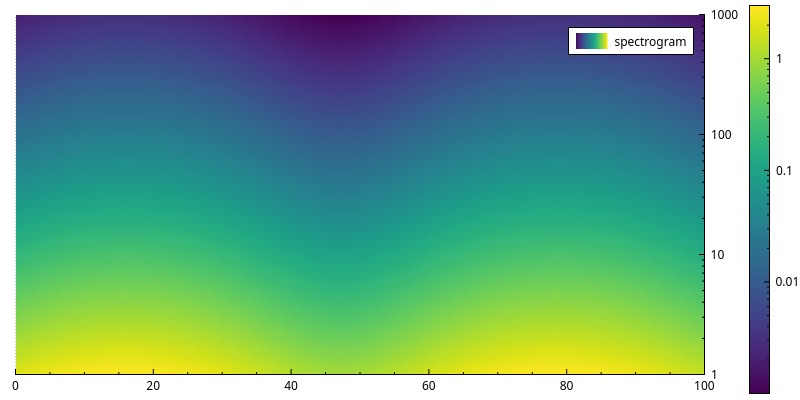
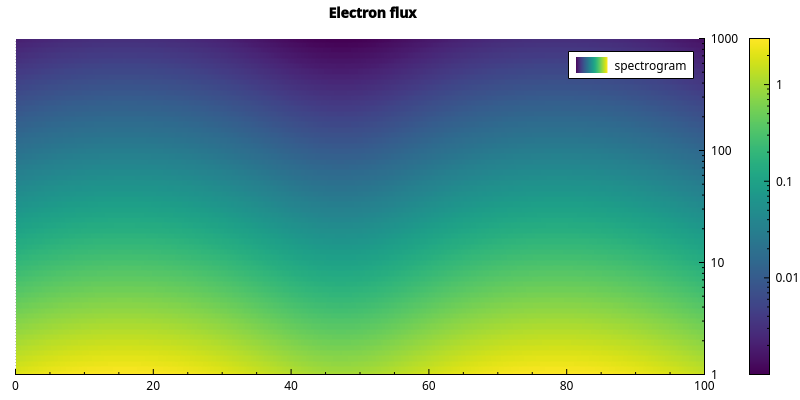
docs(guide): pictures for bands, fills, error bars, histograms, legend placement and title
Phase 3 gate of the API review: every new feature has a guide section and a picture.

diff --git a/docs/user-guide.md b/docs/user-guide.md
@@ -154,6 +154,8 @@ x = np.linspace(0, 10, 10_000)
 plot.band(x, np.sin(x) - 0.3, np.sin(x) + 0.3, name="sin +/- 0.3")
 ```
 
+![A shaded band around a sine](images/band.png)
+
 Fills are also available on any line graph, one column at a time. `set_fill_to_value` fills between a line and a constant. `set_fill_between` fills between two columns of the same graph.
 
 ```python
@@ -170,6 +172,8 @@ graph.set_fill_between(1, 2)
 graph.set_fill_to_value(0, 0.0)
 ```
 
+![A sine filled to zero, with a band between its low and high columns](images/fills.png)
+
 `graph.clear_fill(column)` removes a fill. `set_fill_color(column, color)` changes its colour.
 
 Both columns must belong to the same graph. To shade between two spacecraft, build one virtual product that returns both curves as columns.
@@ -181,14 +185,28 @@ import numpy as np
 from SciQLopPlots import SciQLopPlot
 
 plot = SciQLopPlot()
-x = np.linspace(0, 10, 200)
+x = np.linspace(0, 10, 25)
 plot.error_bars(x, np.sin(x), 0.1)
 plot.error_bars(x, np.cos(x), 0.1, 0.3, name="asymmetric")
+plot.x_axis().set_range(-0.5, 10.5)
 ```
+
+![Symmetric and asymmetric error bars with caps](images/error-bars.png)
 
 One error gives symmetric bars. Two give the lower and the upper error. Errors are a scalar or one value per point.
 
-Bars are drawn while there is room for them. Zoom out and they merge into a band.
+Bars are drawn while there is room for them. Zoom out, or pass many points, and they merge into a band:
+
+```python
+import numpy as np
+from SciQLopPlots import SciQLopPlot
+
+plot = SciQLopPlot()
+x = np.linspace(0, 10, 2000)
+plot.error_bars(x, np.sin(x), 0.02 + 0.03 * x, name="dense")   # the error grows with x
+```
+
+![Error bars too dense to draw, shown as a band](images/error-bars-dense.png)
 
 A band is downsampled like any line. Zoomed out, it spans between the drawn min/max lines, not between every raw point.
 
@@ -223,6 +241,7 @@ cmap = plot.plot(x, y, z, name="spectrogram")
 cmap.set_gradient(ColorGradient.Viridis)
 cmap.set_y_log_scale(True)
 cmap.set_z_log_scale(True)
+plot.set_title("Electron flux")
 ```
 
 ![A spectrogram on log y and colour scales](images/colormap.png)
@@ -305,7 +324,21 @@ values = np.random.default_rng(42).normal(0, 1, 100_000)
 hist = plot.histogram(values, bins=50, name="speed")
 ```
 
+![A histogram of normal values drawn as bars](images/histogram.png)
+
 One column of values is drawn as bars. Several columns are drawn as step outlines, one per column. Pass `style=HistogramStyle.Bars` or `style=HistogramStyle.Step` to choose. An explicit style always wins.
+
+```python
+import numpy as np
+from SciQLopPlots import SciQLopPlot
+
+plot = SciQLopPlot()
+rng = np.random.default_rng(42)
+values = np.column_stack([rng.normal(0, 1, 50_000), rng.normal(1.5, 0.7, 50_000)])
+hist = plot.histogram(values, bins=60, name="two populations")
+```
+
+![Two histograms drawn as step outlines](images/histogram-step.png)
 
 `range=(lower, upper)` fixes the edges. Values outside the range are not counted.
 
@@ -388,6 +421,8 @@ edges = np.array([0.0, 1.0, 2.0, 5.0, 10.0])
 heights = np.array([4.0, 9.0, 3.0, 1.0])
 bars = plot.bars(edges, heights, name="pre-binned")
 ```
+
+![Pre-binned bars with uneven widths](images/bars.png)
 
 ## Live data: plot a function
 
@@ -681,6 +716,8 @@ plot.legend().set_columns(3)                    # entries side by side
 panel = SciQLopMultiPlotPanel()
 panel.set_legend_visible(False)                 # every plot's legend, later ones too
 ```
+
+![A legend with three entries side by side, placed inside the plot](images/legend-placement.png)
 
 ## Overlays: spans, lines and text
 

diff --git a/docs/api-review-2026-10-20.md b/docs/api-review-2026-10-20.md
@@ -148,3 +148,5 @@ rules holds in some classes and not in others.
 | 18 SVG | `save_svg()`, `save()` writes `.svg`; no `format=` keyword (d62aa8c). |
 | 14 Bands, error bars | Done. Fills and bands as column decorations, error bars that become a band when dense, `plot.band` and `plot.error_bars`. Side fix: a callback batch with the wrong number of arrays now emits `fetch_failed` instead of vanishing, which also fixed 2-pane projection callbacks. |
 | 17 1-D histogram | Done. `SciQLopHistogram` over NeoQCP's `QCPHistogram`: `plot.histogram` (values or time-range callback), `plot.bars(edges, heights)`, bins, range, log bins, normalization, bars or step. A per-plot opt-out from the panel's x sync keeps the value axis still. Guide section "Histograms". |
+
+**Phase 3 gate: met.** Every feature has a guide section and a picture (band, fills, error bars sparse and dense, histograms, bars, legend placement, title). Checking an SVG export found graphs drawn outside the plot area; fixed by writing SVG 1.1, which keeps clip paths.
